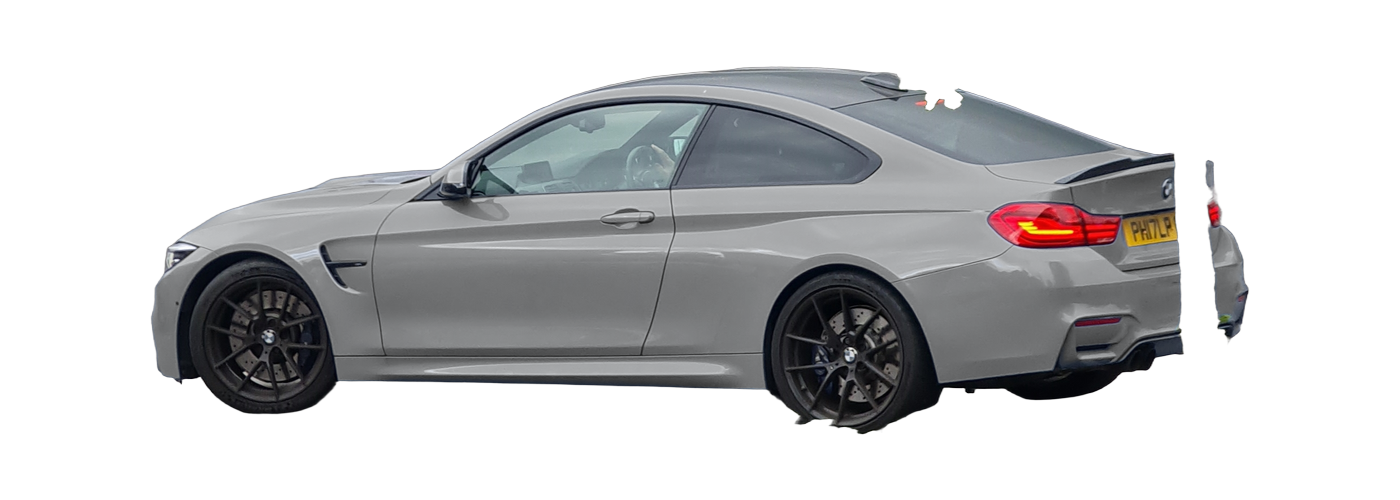
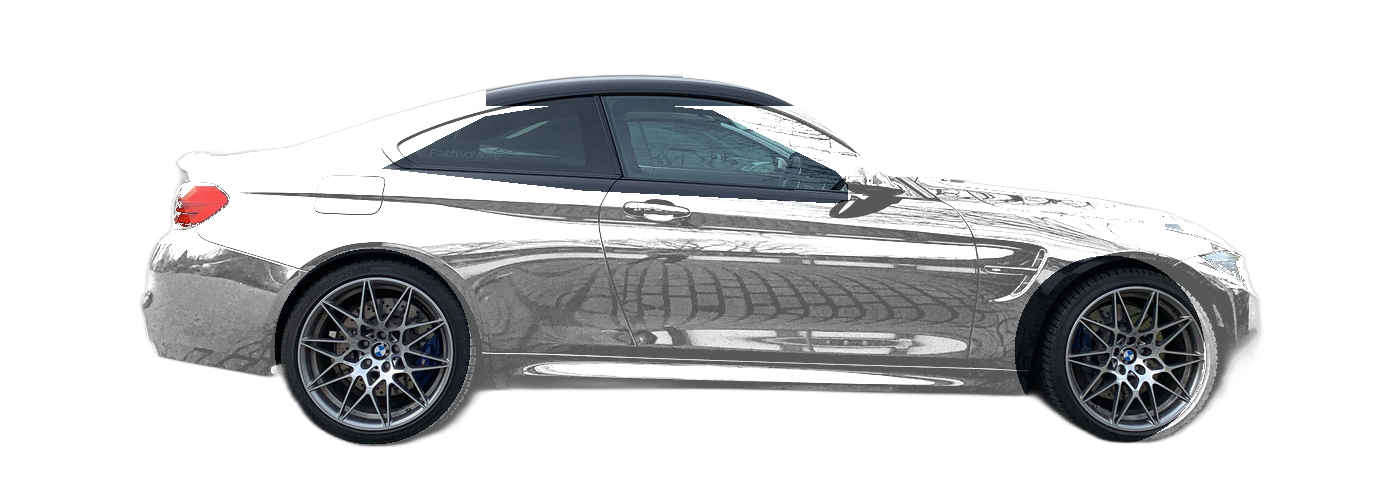
fix(garage): replace broken BMW M4 cutouts with pristine silhouettes and accurate F82 OEM color palette

diff --git a/frontend/src/lib/vehicleStyle.ts b/frontend/src/lib/vehicleStyle.ts
@@ -60,9 +60,56 @@ export const TOYOTA_COLOR_PRESETS: VehicleColorPreset[] = [
   { id: 'army_green', name: 'Army Green', hex: '#3f4f3e', labelZh: '軍裝綠', labelEn: 'Army Green' },
 ]
 
+export const BMW_M4_F82_COLOR_PRESETS: VehicleColorPreset[] = [
+  { id: 'austin_yellow', name: 'Austin Yellow Metallic (B67)', hex: '#d2b134', labelZh: '奧斯汀黃 (B67)', labelEn: 'Austin Yellow Metallic' },
+  { id: 'yas_marina_blue', name: 'Yas Marina Blue Metallic (B68)', hex: '#5c9dc0', labelZh: '亞斯碼頭藍 (B68)', labelEn: 'Yas Marina Blue Metallic' },
+  { id: 'sakhir_orange', name: 'Sakhir Orange II Metallic (C1H)', hex: '#a8322d', labelZh: '薩基爾橙 (C1H)', labelEn: 'Sakhir Orange II Metallic' },
+  { id: 'san_marino_blue', name: 'San Marino Blue Metallic (B51)', hex: '#1c3b72', labelZh: '聖馬利諾藍 (B51)', labelEn: 'San Marino Blue Metallic' },
+  { id: 'mineral_grey', name: 'Mineral Grey Metallic (B39)', hex: '#484b50', labelZh: '礦石灰 (B39)', labelEn: 'Mineral Grey Metallic' },
+  { id: 'black_sapphire', name: 'Black Sapphire Metallic (475)', hex: '#121417', labelZh: '藍寶石黑 (475)', labelEn: 'Black Sapphire Metallic' },
+  { id: 'alpine_white', name: 'Alpine White (300)', hex: '#faf9fb', labelZh: '雪山白 (300)', labelEn: 'Alpine White' },
+  { id: 'silverstone', name: 'Silverstone II Metallic (A29)', hex: '#b8c3cc', labelZh: '銀石銀 (A29)', labelEn: 'Silverstone II Metallic' },
+  { id: 'mineral_white', name: 'Mineral White Metallic (A96)', hex: '#f0f0ee', labelZh: '礦石白 (A96)', labelEn: 'Mineral White Metallic' },
+]
+
+export const TOYOTA_RAV4_COLOR_PRESETS: VehicleColorPreset[] = [
+  { id: 'wind_chill_pearl', name: 'Wind Chill Pearl / Super White (089)', hex: '#f8fafc', labelZh: '極光珍珠白 (089)', labelEn: 'Wind Chill Pearl' },
+  { id: 'midnight_black', name: 'Midnight Black Metallic (218)', hex: '#111827', labelZh: '午夜黑 (218)', labelEn: 'Midnight Black Metallic' },
+  { id: 'magnetic_gray', name: 'Magnetic Gray Metallic (1G3)', hex: '#4b5563', labelZh: '磁性灰 (1G3)', labelEn: 'Magnetic Gray Metallic' },
+  { id: 'silver_sky', name: 'Silver Sky Metallic (1D6)', hex: '#cbd5e1', labelZh: '天空銀 (1D6)', labelEn: 'Silver Sky Metallic' },
+  { id: 'blueprint', name: 'Blueprint (8X8)', hex: '#1d4ed8', labelZh: '藍圖深藍 (8X8)', labelEn: 'Blueprint' },
+  { id: 'ruby_flare', name: 'Ruby Flare Pearl (3T3)', hex: '#991b1b', labelZh: '尊爵紅 (3T3)', labelEn: 'Ruby Flare Pearl' },
+  { id: 'lunar_rock', name: 'Lunar Rock (6X3)', hex: '#8b9788', labelZh: '岩石灰綠 / 月岩灰 (6X3)', labelEn: 'Lunar Rock' },
+  { id: 'army_green', name: 'Army Green (6V7)', hex: '#3f4f3e', labelZh: '軍裝綠 (6V7)', labelEn: 'Army Green' },
+  { id: 'cavalry_blue', name: 'Cavalry Blue (8W2)', hex: '#4b6b82', labelZh: '騎兵藍 (8W2)', labelEn: 'Cavalry Blue' },
+]
+
+export const FORD_MUSTANG_COLOR_PRESETS: VehicleColorPreset[] = [
+  { id: 'oxford_white', name: 'Oxford White (YZ)', hex: '#f8fafc', labelZh: '牛津白 (YZ)', labelEn: 'Oxford White' },
+  { id: 'shadow_black', name: 'Shadow Black (G1)', hex: '#111827', labelZh: '暗影黑 (G1)', labelEn: 'Shadow Black' },
+  { id: 'grabber_blue', name: 'Grabber Blue (AE)', hex: '#38bdf8', labelZh: '掠奪者藍 (AE)', labelEn: 'Grabber Blue' },
+  { id: 'race_red', name: 'Race Red (PQ)', hex: '#dc2626', labelZh: '競技紅 (PQ)', labelEn: 'Race Red' },
+  { id: 'twister_orange', name: 'Twister Orange (E3)', hex: '#ea580c', labelZh: '龍捲風橙 (E3)', labelEn: 'Twister Orange' },
+  { id: 'velocity_blue', name: 'Velocity Blue (E7)', hex: '#1d4ed8', labelZh: '疾速藍 (E7)', labelEn: 'Velocity Blue' },
+  { id: 'magnetic', name: 'Magnetic Metallic (J7)', hex: '#374151', labelZh: '磁石灰 (J7)', labelEn: 'Magnetic Metallic' },
+  { id: 'iconic_silver', name: 'Iconic Silver (JS)', hex: '#9ca3af', labelZh: '標誌銀 (JS)', labelEn: 'Iconic Silver' },
+]
+
+export const PORSCHE_911_COLOR_PRESETS: VehicleColorPreset[] = [
+  { id: 'guards_red', name: 'Guards Red (84A)', hex: '#b91c1c', labelZh: '衛紅 (84A)', labelEn: 'Guards Red' },
+  { id: 'racing_yellow', name: 'Racing Yellow (1S1)', hex: '#eab308', labelZh: '競速黃 (1S1)', labelEn: 'Racing Yellow' },
+  { id: 'gt_silver', name: 'GT Silver Metallic (M7Z)', hex: '#94a3b8', labelZh: 'GT銀 (M7Z)', labelEn: 'GT Silver Metallic' },
+  { id: 'gentian_blue', name: 'Gentian Blue Metallic (1A)', hex: '#1e3a8a', labelZh: '龍膽藍 (1A)', labelEn: 'Gentian Blue Metallic' },
+  { id: 'chalk', name: 'Chalk / Crayon (3H)', hex: '#d6d3d1', labelZh: '蠟灰 (3H)', labelEn: 'Chalk / Crayon' },
+  { id: 'white', name: 'White (0Q)', hex: '#ffffff', labelZh: '純白 (0Q)', labelEn: 'White' },
+  { id: 'black', name: 'Black (A1)', hex: '#0f172a', labelZh: '純黑 (A1)', labelEn: 'Black' },
+  { id: 'python_green', name: 'Python Green (3C)', hex: '#15803d', labelZh: '蟒蛇綠 (3C)', labelEn: 'Python Green' },
+  { id: 'shark_blue', name: 'Shark Blue (D5C)', hex: '#0284c7', labelZh: '鯊魚藍 (D5C)', labelEn: 'Shark Blue' },
+]
+
 export const BMW_COLOR_PRESETS: VehicleColorPreset[] = [
-  { id: 'alpine_white', name: 'Alpine White (300)', hex: '#f8fafc', labelZh: '高山白 (300)', labelEn: 'Alpine White (300)' },
-  { id: 'black_sapphire', name: 'Black Sapphire Metallic (475)', hex: '#0f172a', labelZh: '藍寶石黑 (475)', labelEn: 'Black Sapphire (475)' },
+  { id: 'alpine_white', name: 'Alpine White (300)', hex: '#faf9fb', labelZh: '高山白 (300)', labelEn: 'Alpine White (300)' },
+  { id: 'black_sapphire', name: 'Black Sapphire Metallic (475)', hex: '#121417', labelZh: '藍寶石黑 (475)', labelEn: 'Black Sapphire (475)' },
   { id: 'skyscraper_grey', name: 'Skyscraper Grey Metallic (C4W)', hex: '#4b5563', labelZh: '摩天樓灰 (C4W)', labelEn: 'Skyscraper Grey (C4W)' },
   { id: 'brooklyn_grey', name: 'Brooklyn Grey Metallic (C4P)', hex: '#94a3b8', labelZh: '布魯克林灰 (C4P)', labelEn: 'Brooklyn Grey (C4P)' },
   { id: 'portimao_blue', name: 'Portimao Blue Metallic (C31)', hex: '#1d4ed8', labelZh: '波爾蒂芒藍 (C31)', labelEn: 'Portimao Blue (C31)' },
@@ -222,10 +269,33 @@ export const VEHICLE_COLOR_PRESETS: VehicleColorPreset[] = MERCEDES_COLOR_PRESET
 
 /**
  * Returns authentic factory OEM color options matched to vehicle brand/label.
+ * Prioritizes model-specific OEM palettes before falling back to brand-level presets.
  */
 export function getVehicleColorPresets(brandOrLabel?: string | null): VehicleColorPreset[] {
   if (!brandOrLabel) return UNIVERSAL_COLOR_PRESETS
   const s = brandOrLabel.toLowerCase()
+
+  // 1. Model-specific OEM palettes
+  if (/\b(m4|f82|f83)\b/.test(s)) {
+    return BMW_M4_F82_COLOR_PRESETS
+  }
+  if (/\b(mustang|gt350|gt500)\b/.test(s)) {
+    return FORD_MUSTANG_COLOR_PRESETS
+  }
+  if (/\b(911|carrera|targa|gt3|gt2)\b/.test(s)) {
+    return PORSCHE_911_COLOR_PRESETS
+  }
+  if (/\brav4\b/.test(s)) {
+    return TOYOTA_RAV4_COLOR_PRESETS
+  }
+  if (/\b(model\s*3|model\s*y)\b/.test(s)) {
+    return TESLA_COLOR_PRESETS
+  }
+  if (/\b(e\s?400|e\s?450|e\s?350)\b.*\bcoupe\b/.test(s)) {
+    return MERCEDES_COLOR_PRESETS
+  }
+
+  // 2. Brand-level OEM palettes
   if (/\b(mercedes|benz|amg|maybach)\b/.test(s)) return MERCEDES_COLOR_PRESETS
   if (/\btesla\b/.test(s)) return TESLA_COLOR_PRESETS
   if (/\b(lexus)\b/.test(s)) return LEXUS_COLOR_PRESETS
@@ -390,7 +460,7 @@ function parseHexRgb(hex: string): [number, number, number] | null {
   return null
 }
 
-export const VEHICLE_IMAGE_CACHE_VERSION = '20261104v2'
+export const VEHICLE_IMAGE_CACHE_VERSION = '20261107v1'
 
 /**
  * Resolves color-accurate, transparent cut-out photograph for the 2018 Mercedes-Benz E400 Coupe.
@@ -515,36 +585,43 @@ export function resolveTeslaColorPhoto(model: 'model_3' | 'model_y', color?: str
  */
 export function resolveBmwM4ColorPhoto(color?: string | null): string {
   const versionParam = `?v=${VEHICLE_IMAGE_CACHE_VERSION}`
-  if (!color || color === '#ffffff' || color === '#fff' || color === '#f8fafc') {
+  if (!color || color === '#ffffff' || color === '#fff' || color === '#faf9fb' || color === '#f8fafc') {
     return `/vehicles/bmw_m4_coupe_alpine_white.png${versionParam}`
   }
   const norm = color.toLowerCase().trim()
 
   const PRESET_FILES: Record<string, string> = {
+    '#faf9fb': 'alpine_white',
     '#f8fafc': 'alpine_white',
     '#ffffff': 'alpine_white',
+    '#f0f0ee': 'mineral_white',
+    '#121417': 'black_sapphire',
     '#0f172a': 'black_sapphire',
     '#111827': 'black_sapphire',
     '#1a1f2c': 'black_sapphire',
     '#1e293b': 'black_sapphire',
-    '#4b5563': 'skyscraper_grey',
-    '#374151': 'skyscraper_grey',
-    '#525a65': 'skyscraper_grey',
-    '#475569': 'skyscraper_grey',
-    '#94a3b8': 'brooklyn_grey',
-    '#a8b0b8': 'brooklyn_grey',
-    '#cbd5e1': 'brooklyn_grey',
-    '#1d4ed8': 'portimao_blue',
-    '#1e3a8a': 'portimao_blue',
-    '#1b2a47': 'portimao_blue',
-    '#166534': 'isle_of_man_green',
-    '#15803d': 'isle_of_man_green',
-    '#3f4f3e': 'isle_of_man_green',
-    '#991b1b': 'melbourne_red',
-    '#7a1c27': 'melbourne_red',
-    '#dc2626': 'melbourne_red',
-    '#b91c1c': 'melbourne_red',
+    '#484b50': 'mineral_grey',
+    '#475569': 'mineral_grey',
+    '#4b5563': 'mineral_grey',
+    '#374151': 'mineral_grey',
+    '#525a65': 'mineral_grey',
+    '#b8c3cc': 'silverstone',
+    '#94a3b8': 'silverstone',
+    '#a8b0b8': 'silverstone',
+    '#cbd5e1': 'silverstone',
+    '#5c9dc0': 'yas_marina_blue',
+    '#38bdf8': 'yas_marina_blue',
+    '#1c3b72': 'san_marino_blue',
+    '#1e3a8a': 'san_marino_blue',
+    '#1d4ed8': 'san_marino_blue',
+    '#1b2a47': 'san_marino_blue',
+    '#d2b134': 'austin_yellow',
     '#eab308': 'austin_yellow',
+    '#a8322d': 'sakhir_orange',
+    '#991b1b': 'sakhir_orange',
+    '#dc2626': 'sakhir_orange',
+    '#b91c1c': 'sakhir_orange',
+    '#ea580c': 'sakhir_orange',
   }
 
   if (PRESET_FILES[norm]) {
@@ -556,9 +633,9 @@ export function resolveBmwM4ColorPhoto(color?: string | null): string {
     return `/vehicles/bmw_m4_coupe_alpine_white.png${versionParam}`
   }
 
-  let bestPreset = 'alpine_white'
+  let bestPreset = 'black_sapphire'
   let minDistance = Infinity
-  for (const preset of BMW_COLOR_PRESETS) {
+  for (const preset of BMW_M4_F82_COLOR_PRESETS) {
     const pRgb = parseHexRgb(preset.hex)
     if (!pRgb) continue
     const dist = (rgb[0] - pRgb[0]) ** 2 + (rgb[1] - pRgb[1]) ** 2 + (rgb[2] - pRgb[2]) ** 2

diff --git a/frontend/src/lib/vehicleStyle.test.ts b/frontend/src/lib/vehicleStyle.test.ts
@@ -87,10 +87,18 @@ describe('inferVehicleSilhouette & inferVehicleArchetype', () => {
     expect(porschePresets.some((c) => c.id === 'guards_red')).toBe(true)
     expect(porschePresets.some((c) => c.id === 'racing_yellow')).toBe(true)
 
-    // BMW has Isle of Man Green and Portimao Blue
+    // BMW has Isle of Man Green and Portimao Blue for generic lineup
     const bmwPresets = getVehicleColorPresets('BMW 4 Series')
     expect(bmwPresets.some((c) => c.id === 'isle_of_man_green')).toBe(true)
     expect(bmwPresets.some((c) => c.id === 'portimao_blue')).toBe(true)
+
+    // BMW M4 Coupe (F82) has authentic M4 factory palette
+    const m4Presets = getVehicleColorPresets('2019 BMW M4 Coupe')
+    expect(m4Presets.some((c) => c.id === 'austin_yellow')).toBe(true)
+    expect(m4Presets.some((c) => c.id === 'yas_marina_blue')).toBe(true)
+    expect(m4Presets.some((c) => c.id === 'sakhir_orange')).toBe(true)
+    expect(m4Presets.some((c) => c.id === 'san_marino_blue')).toBe(true)
+    expect(m4Presets.some((c) => c.id === 'black_sapphire')).toBe(true)
 
     // Ford has Oxford White and Grabber Blue
     const fordPresets = getVehicleColorPresets('Ford Mustang')
@@ -160,8 +168,11 @@ describe('inferVehicleSilhouette & inferVehicleArchetype', () => {
     // Mapped photo for BMW M4 Coupe
     expect(resolveVehiclePhoto('2019 BMW M4 Coupe')).toBe(`/vehicles/bmw_m4_coupe_alpine_white.png?v=${v}`)
     expect(resolveVehiclePhoto('2019 BMW M4 Coupe', null, '#1e293b')).toBe(`/vehicles/bmw_m4_coupe_black_sapphire.png?v=${v}`)
-    expect(resolveVehiclePhoto('2019 BMW M4 Coupe', null, '#1d4ed8')).toBe(`/vehicles/bmw_m4_coupe_portimao_blue.png?v=${v}`)
+    expect(resolveVehiclePhoto('2019 BMW M4 Coupe', null, '#1d4ed8')).toBe(`/vehicles/bmw_m4_coupe_san_marino_blue.png?v=${v}`)
+    expect(resolveVehiclePhoto('2019 BMW M4 Coupe', null, '#5c9dc0')).toBe(`/vehicles/bmw_m4_coupe_yas_marina_blue.png?v=${v}`)
     expect(resolveVehiclePhoto('2019 BMW M4 Coupe', null, '#eab308')).toBe(`/vehicles/bmw_m4_coupe_austin_yellow.png?v=${v}`)
+    expect(resolveVehiclePhoto('2019 BMW M4 Coupe', null, '#a8322d')).toBe(`/vehicles/bmw_m4_coupe_sakhir_orange.png?v=${v}`)
+    expect(resolveVehiclePhoto('2019 BMW M4 Coupe', null, '#484b50')).toBe(`/vehicles/bmw_m4_coupe_mineral_grey.png?v=${v}`)
 
     // Mapped photo for Toyota RAV4 and Crossover SUVs
     expect(resolveVehiclePhoto('2024 Toyota RAV4')).toBe(`/vehicles/toyota_rav4_wind_chill_pearl.png?v=${v}`)
